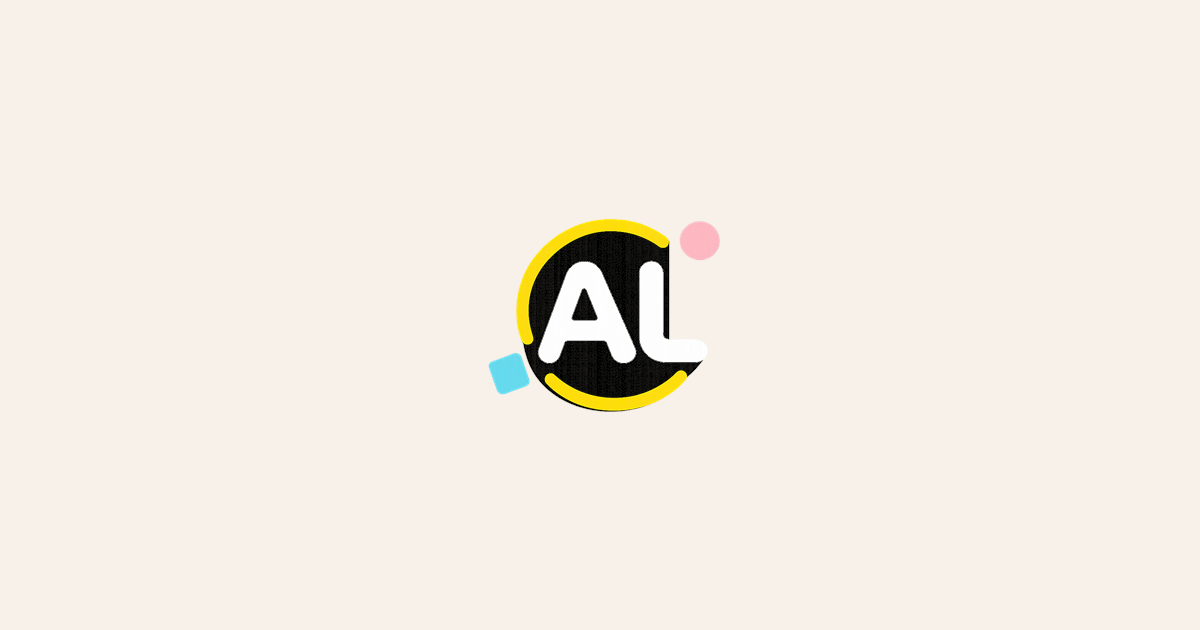
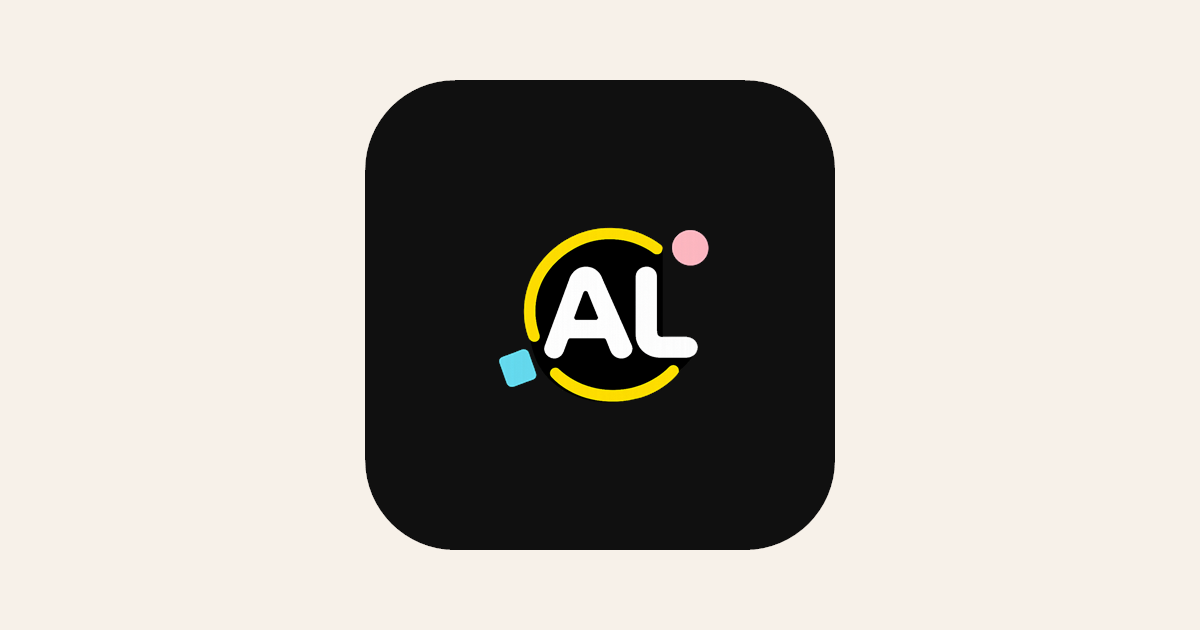
Refine branded social preview

Changed region(s): [[0.2775, 0.1206, 0.7092, 0.8746]]

diff --git a/produtos.html b/produtos.html
@@ -20,7 +20,7 @@
     <meta property="og:url" content="https://artsluminare.com/produtos.html" />
     <meta
       property="og:image"
-      content="https://artsluminare.com/assets/artsluminare-social-preview.png?v=1"
+      content="https://artsluminare.com/assets/artsluminare-social-preview.png?v=2"
     />
     <meta property="og:image:alt" content="Cat&aacute;logo de amigurumis da ArtsLuminare" />
     <meta property="og:image:width" content="1200" />
@@ -33,7 +33,7 @@
     />
     <meta
       name="twitter:image"
-      content="https://artsluminare.com/assets/artsluminare-social-preview.png?v=1"
+      content="https://artsluminare.com/assets/artsluminare-social-preview.png?v=2"
     />
     <link rel="canonical" href="https://artsluminare.com/produtos.html" />
     <link rel="icon" type="image/png" href="./assets/favicon-al-transparent.png?v=2" />

diff --git a/index.html b/index.html
@@ -20,7 +20,7 @@
     <meta property="og:url" content="https://artsluminare.com/" />
     <meta
       property="og:image"
-      content="https://artsluminare.com/assets/artsluminare-social-preview.png?v=1"
+      content="https://artsluminare.com/assets/artsluminare-social-preview.png?v=2"
     />
     <meta property="og:image:alt" content="Amigurumis da ArtsLuminare em destaque" />
     <meta property="og:image:width" content="1200" />
@@ -33,7 +33,7 @@
     />
     <meta
       name="twitter:image"
-      content="https://artsluminare.com/assets/artsluminare-social-preview.png?v=1"
+      content="https://artsluminare.com/assets/artsluminare-social-preview.png?v=2"
     />
     <link rel="canonical" href="https://artsluminare.com/" />
     <link rel="icon" type="image/png" href="./assets/favicon-al-transparent.png?v=2" />
